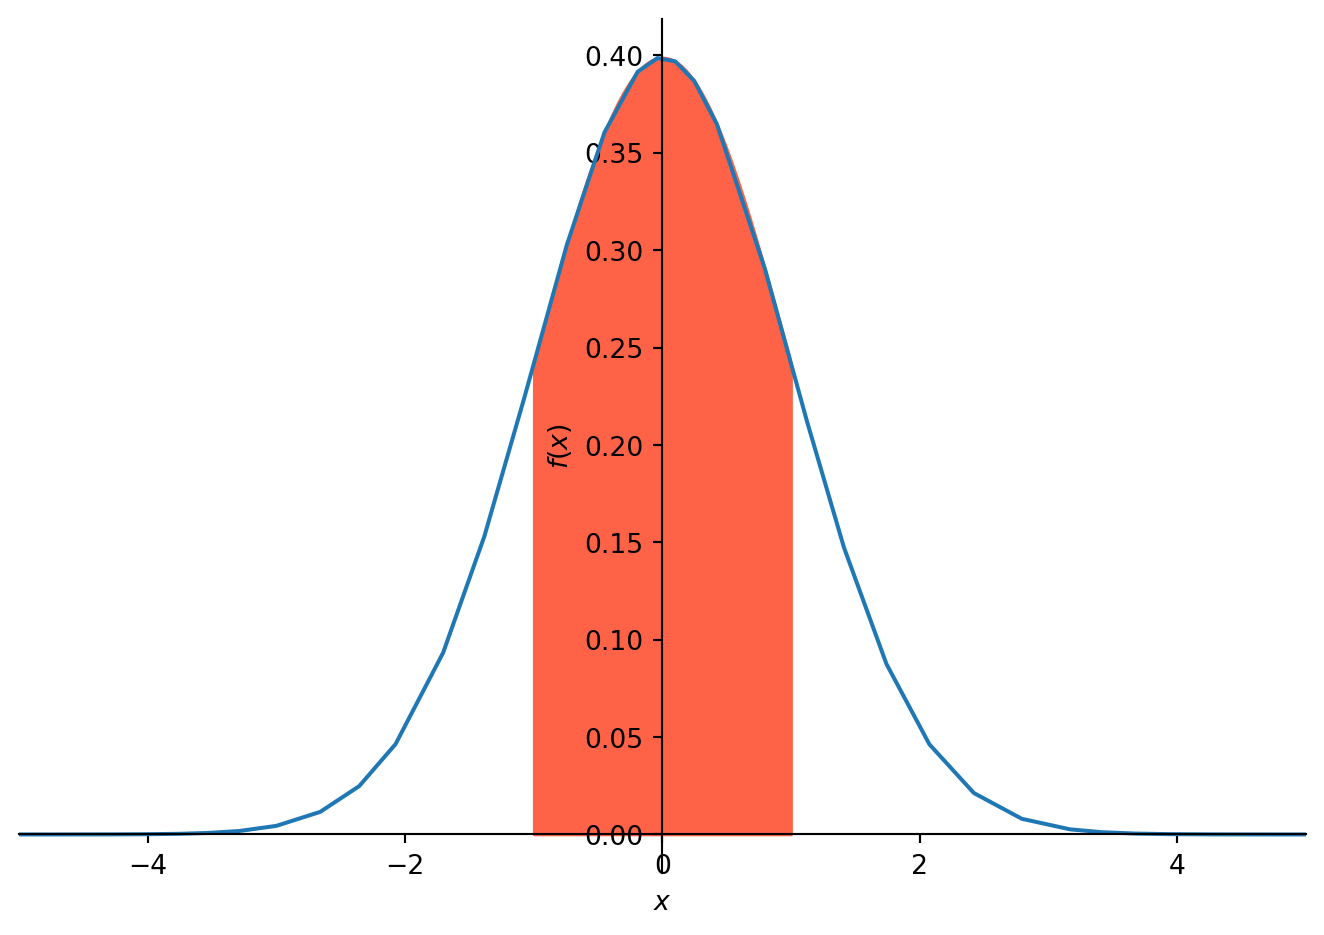
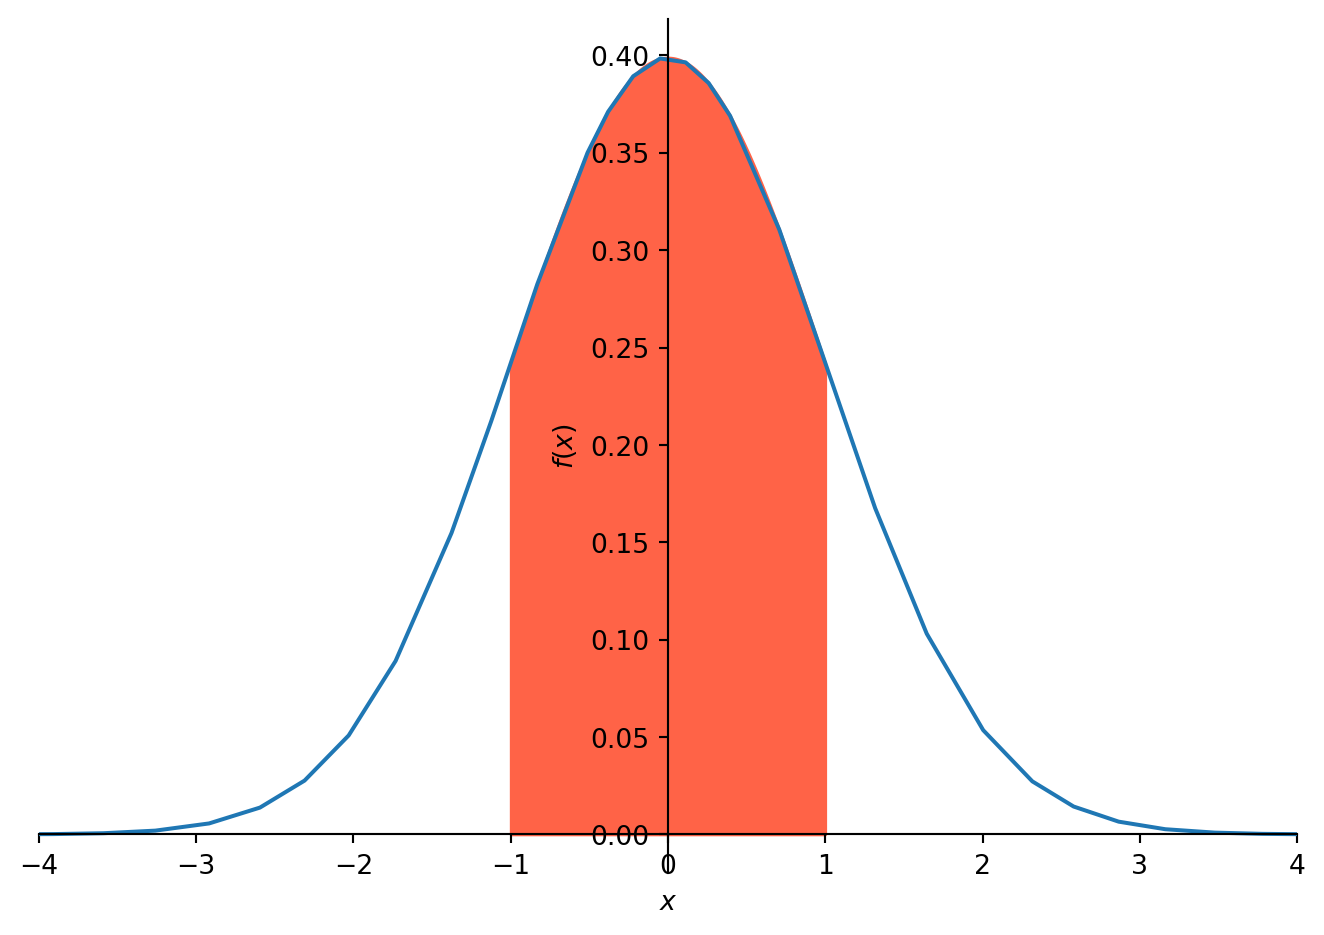
Minor

diff --git a/site/integrals.html b/site/integrals.html
@@ -327,7 +327,7 @@ pre > code.sourceCode > span > a:first-child::before { text-decoration: underlin
 <span id="cb6-21"><a href="#cb6-21" aria-hidden="true" tabindex="-1"></a>f <span class="op">=</span> my_function(x)</span>
 <span id="cb6-22"><a href="#cb6-22" aria-hidden="true" tabindex="-1"></a>x_area <span class="op">=</span> np.linspace(a, b, <span class="dv">1000</span>)</span>
 <span id="cb6-23"><a href="#cb6-23" aria-hidden="true" tabindex="-1"></a>f_area <span class="op">=</span> lambdify(x, f)(x_area)</span>
-<span id="cb6-24"><a href="#cb6-24" aria-hidden="true" tabindex="-1"></a>plot(f, xlim<span class="op">=</span>(<span class="op">-</span><span class="dv">5</span>, <span class="dv">5</span>), fill<span class="op">=</span>{<span class="st">'x'</span>: x_area,<span class="st">'y1'</span>:f_area,<span class="st">'color'</span>:<span class="st">'tomato'</span>})</span>
+<span id="cb6-24"><a href="#cb6-24" aria-hidden="true" tabindex="-1"></a>plot(f, xlim<span class="op">=</span>(<span class="op">-</span><span class="dv">4</span>, <span class="dv">4</span>), fill<span class="op">=</span>{<span class="st">'x'</span>: x_area,<span class="st">'y1'</span>:f_area,<span class="st">'color'</span>:<span class="st">'tomato'</span>})</span>
 <span id="cb6-25"><a href="#cb6-25" aria-hidden="true" tabindex="-1"></a></span>
 <span id="cb6-26"><a href="#cb6-26" aria-hidden="true" tabindex="-1"></a><span class="kw">def</span> integral_function(x):</span>
 <span id="cb6-27"><a href="#cb6-27" aria-hidden="true" tabindex="-1"></a>    mu <span class="op">=</span> <span class="dv">0</span></span>
